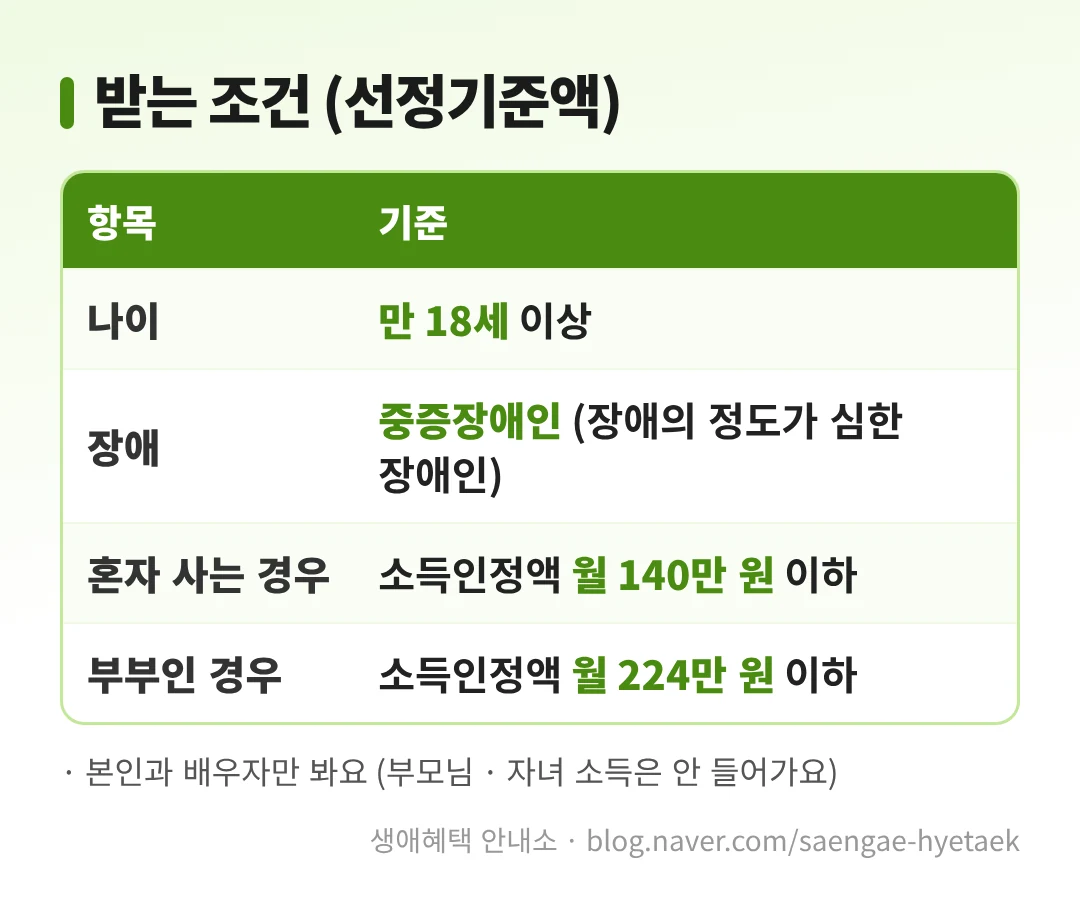
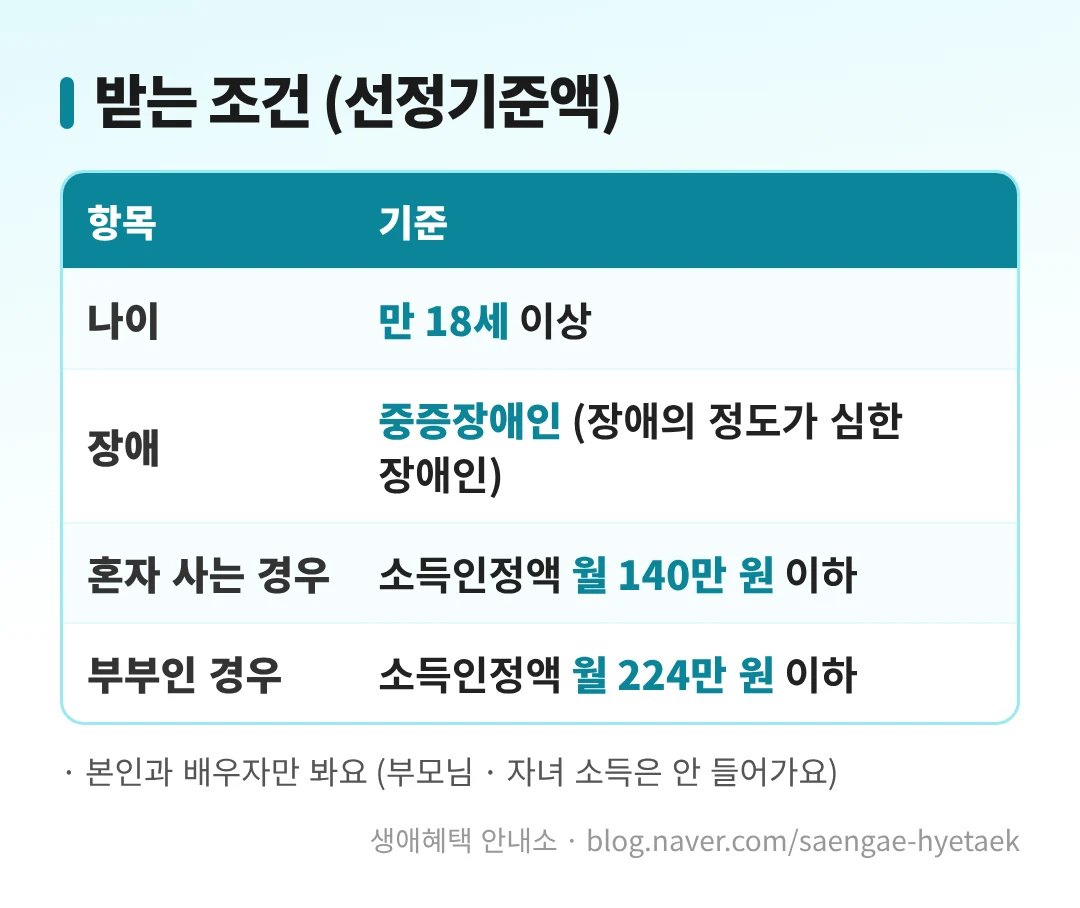
카테고리색 확정(청년 보라·임신 분홍·장애인 청록), 연결 줄 카테고리별 재구성 (11/27)
Claude-Session: https://claude.ai/code/session_01Nk3GpQpxJj9NPpDGjGUV5D

diff --git a/blog/2026-11-27-장애인연금-사진/원고-11-27-장애인연금.html b/blog/2026-11-27-장애인연금-사진/원고-11-27-장애인연금.html
@@ -4,11 +4,11 @@
 <p>[ 사진 넣는 자리 · 01-장애인연금-2026-월-최대-43만-9700원.webp ]</p>
 <p style="color:#333333;font-size:16px;line-height:1.9;margin:0 0 12px;text-align:left">안녕하세요, 생애혜택 안내인입니다. 장애가 있으면 병원비, 보조기기, 이동하는 데 드는 돈이 더 들기 마련이에요. 장애인연금은 이렇게 줄어든 벌이와 더 드는 비용을 매달 채워 주는 돈이에요. 2026년에는 한 달에 최대 43만 9,700원까지 받을 수 있어요. 등록만 하고 신청을 안 해서 못 받는 분이 많으니 꼭 확인해 보세요.</p>
 <p><br></p>
-<p style="color:#333333;font-size:16px;line-height:1.9;margin:0 0 12px;text-align:left"><b style="font-size:19px;color:#4A8C12">🎬 30초 영상으로 먼저 보기</b></p>
+<p style="color:#333333;font-size:16px;line-height:1.9;margin:0 0 12px;text-align:left"><b style="font-size:19px;color:#0C8599">🎬 30초 영상으로 먼저 보기</b></p>
 <p>[ 사진 넣는 자리 · 클립 영상(직접 넣기) · 장애인연금 2026 월 최대 43만 9700원.mp4 ]</p>
 <p style="color:#333333;font-size:16px;line-height:1.9;margin:0 0 12px;text-align:left">바쁘시면 영상만 보셔도 돼요. 아래는 우리 집이 받을 수 있는지 하나씩 확인하는 방법이에요.</p>
 <p><br></p>
-<p style="color:#333333;font-size:16px;line-height:1.9;margin:0 0 12px;text-align:left"><b style="font-size:18px;color:#4A8C12">✅ 한눈에 정리</b></p>
+<p style="color:#333333;font-size:16px;line-height:1.9;margin:0 0 12px;text-align:left"><b style="font-size:18px;color:#0C8599">✅ 한눈에 정리</b></p>
 <p style="color:#333333;font-size:16px;line-height:1.9;margin:0 0 12px;text-align:left">· 대상: 만 18세 이상 등록된 중증장애인(장애의 정도가 심한 장애인)</p>
 <p style="color:#333333;font-size:16px;line-height:1.9;margin:0 0 12px;text-align:left">· 소득 기준: 본인과 배우자의 소득인정액이 혼자면 월 140만 원, 부부면 224만 원 이하</p>
 <p style="color:#333333;font-size:16px;line-height:1.9;margin:0 0 12px;text-align:left">· 기초급여 최대 34만 9,700원 + 부가급여 3만~9만 원 = 한 달 최대 43만 9,700원</p>
@@ -16,22 +16,22 @@
 <p style="color:#333333;font-size:16px;line-height:1.9;margin:0 0 12px;text-align:left">· 신청: 사는 곳 주민센터 또는 복지로 / 문의 129</p>
 <hr>
 <p><br></p>
-<p style="color:#333333;font-size:16px;line-height:1.9;margin:0 0 12px;text-align:left"><b style="font-size:19px;color:#4A8C12">💰 두 가지 돈을 합쳐서 받아요</b></p>
+<p style="color:#333333;font-size:16px;line-height:1.9;margin:0 0 12px;text-align:left"><b style="font-size:19px;color:#0C8599">💰 두 가지 돈을 합쳐서 받아요</b></p>
 <p>[ 사진 넣는 자리 · 02-장애인연금-기초급여와-부가급여-금액.webp ]</p>
 <p style="color:#333333;font-size:16px;line-height:1.9;margin:0 0 12px;text-align:left">장애인연금은 기초급여와 부가급여 두 가지로 나뉘어요. 기초급여는 벌이가 줄어든 만큼 채워 주는 돈으로 18~64세가 받아요. 65세가 되면 기초연금으로 바뀌어 받게 돼요. 부가급여는 장애 때문에 더 드는 비용을 채워 주는 돈이에요. 부부가 둘 다 기초급여를 받으면 기초급여가 조금씩 줄어들어요.</p>
 <hr>
 <p><br></p>
-<p style="color:#333333;font-size:16px;line-height:1.9;margin:0 0 12px;text-align:left"><b style="font-size:19px;color:#4A8C12">✅ 우리 집도 받을 수 있을까?</b></p>
+<p style="color:#333333;font-size:16px;line-height:1.9;margin:0 0 12px;text-align:left"><b style="font-size:19px;color:#0C8599">✅ 우리 집도 받을 수 있을까?</b></p>
 <p>[ 사진 넣는 자리 · 03-장애인연금-받는-조건과-선정기준액.webp ]</p>
 <p style="color:#333333;font-size:16px;line-height:1.9;margin:0 0 12px;text-align:left">세 가지를 보면 돼요. 첫째, 만 18세 이상이어야 해요. 둘째, 장애의 정도가 심한 중증장애인으로 등록돼 있어야 해요. 셋째, 본인과 배우자의 소득인정액이 기준 아래여야 해요. 소득인정액은 월급 같은 벌이에 집, 예금 같은 재산을 돈으로 바꿔 더한 금액이에요. 그래서 부모님이나 자녀 소득은 들어가지 않아요.</p>
 <hr>
 <p><br></p>
-<p style="color:#333333;font-size:16px;line-height:1.9;margin:0 0 12px;text-align:left"><b style="font-size:19px;color:#4A8C12">🙋 나라면 얼마 받을까?</b></p>
+<p style="color:#333333;font-size:16px;line-height:1.9;margin:0 0 12px;text-align:left"><b style="font-size:19px;color:#0C8599">🙋 나라면 얼마 받을까?</b></p>
 <p>[ 사진 넣는 자리 · 04-상황별-장애인연금-받는-금액-예시.webp ]</p>
 <p style="color:#333333;font-size:16px;line-height:1.9;margin:0 0 12px;text-align:left">예를 들어 생계급여를 받는 40세 중증장애인이라면 기초급여 34만 9,700원에 부가급여 9만 원, 한 달 43만 9,700원을 받아요. 기초수급자가 아니라 차상위계층이면 부가급여가 3만~8만 원이라 이보다 조금 적어요. 소득인정액이 기준에 가까우면 기초급여가 단계별로 줄어 최소 2만 원까지 내려갈 수 있어요. 정확한 금액은 신청한 뒤 조사를 거쳐 정해져요.</p>
 <hr>
 <p><br></p>
-<p style="color:#333333;font-size:16px;line-height:1.9;margin:0 0 12px;text-align:left"><b style="font-size:19px;color:#4A8C12">📝 어떻게 신청하나요?</b></p>
+<p style="color:#333333;font-size:16px;line-height:1.9;margin:0 0 12px;text-align:left"><b style="font-size:19px;color:#0C8599">📝 어떻게 신청하나요?</b></p>
 <p>[ 사진 넣는 자리 · 05-장애인연금-신청하는-곳과-순서.webp ]</p>
 <p style="color:#333333;font-size:16px;line-height:1.9;margin:0 0 12px;text-align:left">① 주민등록상 사는 곳 읍·면·동 주민센터에 가서 상담하고 신청해요.</p>
 <p style="color:#333333;font-size:16px;line-height:1.9;margin:0 0 12px;text-align:left">② 인터넷은 복지로에서도 신청할 수 있어요. 다만 서류를 보완하느라 조금 늦어질 수 있어요.</p>
@@ -40,16 +40,16 @@
 <p style="color:#333333;font-size:16px;line-height:1.9;margin:0 0 12px;text-align:left">몸이 불편해 가기 어렵다면 가족이 대신 주민센터에 문의해도 돼요. 중증이 아닌 장애인이라면 저소득층에게 주는 장애수당(월 6만 원)을 확인해 보세요.</p>
 <hr>
 <p><br></p>
-<p style="color:#333333;font-size:16px;line-height:1.9;margin:0 0 12px;text-align:left"><b style="font-size:19px;color:#4A8C12">❓ 많이 헷갈리는 점</b></p>
+<p style="color:#333333;font-size:16px;line-height:1.9;margin:0 0 12px;text-align:left"><b style="font-size:19px;color:#0C8599">❓ 많이 헷갈리는 점</b></p>
 <p style="color:#333333;font-size:16px;line-height:1.9;margin:0 0 12px;text-align:left">장애인연금과 국민연금의 &#x27;장애연금&#x27;은 이름은 비슷하지만 전혀 다른 돈이에요. 장애연금은 국민연금에 가입해 보험료를 낸 사람이 받는 것이고, 장애인연금은 보험료와 상관없이 소득 기준으로 받아요. 그래서 국민연금을 낸 적이 없어도 장애인연금은 받을 수 있어요. 또 자녀가 만 18세가 되면 바로 주민센터에 물어보세요. 학교에 다니는 20세 이하라면 장애아동수당 대상일 수도 있어요.</p>
 <hr>
 <p><br></p>
-<p style="color:#333333;font-size:16px;line-height:1.9;margin:0 0 12px;text-align:left"><b style="font-size:19px;color:#4A8C12">📱 장애인 혜택, 한 번 더 보기</b></p>
+<p style="color:#333333;font-size:16px;line-height:1.9;margin:0 0 12px;text-align:left"><b style="font-size:19px;color:#0C8599">📱 장애인 혜택, 한 번 더 보기</b></p>
 <p style="color:#333333;font-size:16px;line-height:1.9;margin:0 0 12px;text-align:left">나이별로 받을 수 있는 정부 혜택을 &#x27;생애혜택 안내소&#x27;에 모아 두었어요. 토스 미니앱이라 설치 없이 토스에서 바로 열려요. 장애인 메뉴에서 함께 받을 수 있는 지원도 이어서 볼 수 있어요.</p>
 <p style="color:#333333;font-size:16px;line-height:1.9;margin:0 0 12px;text-align:left">👉 <a href="https://tossminiapp.com/s/XAESUR6e">https://tossminiapp.com/s/XAESUR6e</a></p>
 <hr>
 <p><br></p>
-<p style="color:#333333;font-size:16px;line-height:1.9;margin:0 0 12px;text-align:left"><b style="font-size:19px;color:#4A8C12">📚 함께 보면 좋은 글</b></p>
+<p style="color:#333333;font-size:16px;line-height:1.9;margin:0 0 12px;text-align:left"><b style="font-size:19px;color:#0C8599">📚 함께 보면 좋은 글</b></p>
 <p style="color:#333333;font-size:16px;line-height:1.9;margin:0 0 12px;text-align:left">▶ 생애혜택 안내소는 이런 블로그예요 (나이별 정부 혜택, 평일 매일)</p>
 <p style="color:#333333;font-size:16px;line-height:1.9;margin:0 0 12px;text-align:left"><a href="https://blog.naver.com/saengae-hyetaek/224460370661">https://blog.naver.com/saengae-hyetaek/224460370661</a></p>
 <hr>

diff --git a/blog/2026-11-27-청년-구직촉진수당-사진/원고-11-27-청년-구직촉진수당.html b/blog/2026-11-27-청년-구직촉진수당-사진/원고-11-27-청년-구직촉진수당.html
@@ -4,11 +4,11 @@
 <p>[ 사진 넣는 자리 · 01-청년-구직촉진수당-월60만원-6개월.webp ]</p>
 <p style="color:#333333;font-size:16px;line-height:1.9;margin:0 0 12px;text-align:left">안녕하세요, 생애혜택 안내인입니다. 취업 준비를 하다 보면 학원비, 교통비, 밥값까지 돈 걱정이 먼저 앞서죠. 이럴 때 나라에서 매달 생활비를 보태 주는 제도가 국민취업지원제도예요. 2026년부터는 한 달 받는 돈이 50만 원에서 60만 원으로 올랐어요. 일한 경험이 없어도 청년이면 신청할 수 있어요.</p>
 <p><br></p>
-<p style="color:#333333;font-size:16px;line-height:1.9;margin:0 0 12px;text-align:left"><b style="font-size:19px;color:#1C5FD4">🎬 30초 영상으로 먼저 보기</b></p>
+<p style="color:#333333;font-size:16px;line-height:1.9;margin:0 0 12px;text-align:left"><b style="font-size:19px;color:#6741D9">🎬 30초 영상으로 먼저 보기</b></p>
 <p>[ 사진 넣는 자리 · 클립 영상(직접 넣기) · 청년 구직촉진수당 월 60만원 6개월.mp4 ]</p>
 <p style="color:#333333;font-size:16px;line-height:1.9;margin:0 0 12px;text-align:left">바쁘시면 영상만 보셔도 돼요. 아래는 내가 받을 수 있는지 하나씩 따져 보는 방법이에요.</p>
 <p><br></p>
-<p style="color:#333333;font-size:16px;line-height:1.9;margin:0 0 12px;text-align:left"><b style="font-size:18px;color:#1C5FD4">✅ 한눈에 정리</b></p>
+<p style="color:#333333;font-size:16px;line-height:1.9;margin:0 0 12px;text-align:left"><b style="font-size:18px;color:#6741D9">✅ 한눈에 정리</b></p>
 <p style="color:#333333;font-size:16px;line-height:1.9;margin:0 0 12px;text-align:left">· 구직촉진수당은 월 60만 원씩 6개월, 모두 360만 원이에요(2026년)</p>
 <p style="color:#333333;font-size:16px;line-height:1.9;margin:0 0 12px;text-align:left">· 18세 이하·70세 이상 가족이나 중증장애인 가족을 돌보면 1명당 월 10만 원이 더 붙어요(최대 40만 원)</p>
 <p style="color:#333333;font-size:16px;line-height:1.9;margin:0 0 12px;text-align:left">· 청년(15~34세)은 가구 소득 중위소득 120% 이하, 재산 5억 원 이하면 신청할 수 있어요</p>
@@ -16,22 +16,22 @@
 <p style="color:#333333;font-size:16px;line-height:1.9;margin:0 0 12px;text-align:left">· 신청: 고용24 누리집 또는 가까운 고용센터 / 문의 1350</p>
 <hr>
 <p><br></p>
-<p style="color:#333333;font-size:16px;line-height:1.9;margin:0 0 12px;text-align:left"><b style="font-size:19px;color:#1C5FD4">💰 얼마를 받나요?</b></p>
+<p style="color:#333333;font-size:16px;line-height:1.9;margin:0 0 12px;text-align:left"><b style="font-size:19px;color:#6741D9">💰 얼마를 받나요?</b></p>
 <p>[ 사진 넣는 자리 · 02-청년-구직촉진수당-받는-금액-정리표.webp ]</p>
 <p style="color:#333333;font-size:16px;line-height:1.9;margin:0 0 12px;text-align:left">돈은 세 가지로 나뉘어요. 먼저 구직활동을 하는 동안 매달 60만 원을 받아요. 집에서 돌보는 가족이 있으면 1명에 10만 원씩 더해져 한 달 최대 100만 원까지 될 수 있어요. 그리고 취업해서 일정 기간 다니면 취업성공수당이 따로 나와요. 이력서 쓰는 법, 면접 연습 같은 1:1 상담도 함께 받아요.</p>
 <hr>
 <p><br></p>
-<p style="color:#333333;font-size:16px;line-height:1.9;margin:0 0 12px;text-align:left"><b style="font-size:19px;color:#1C5FD4">✅ 나도 신청할 수 있을까?</b></p>
+<p style="color:#333333;font-size:16px;line-height:1.9;margin:0 0 12px;text-align:left"><b style="font-size:19px;color:#6741D9">✅ 나도 신청할 수 있을까?</b></p>
 <p>[ 사진 넣는 자리 · 03-청년-국민취업지원제도-신청-조건.webp ]</p>
 <p style="color:#333333;font-size:16px;line-height:1.9;margin:0 0 12px;text-align:left">나이는 15세부터 34세까지예요. 군대를 다녀왔다면 복무한 기간만큼(최대 3년) 나이를 늘려 줘요. 그래서 군필이면 37세까지도 될 수 있어요. 소득은 나 혼자가 아니라 주민등록상 같이 사는 가족을 모두 합쳐서 봐요. 부모님과 같이 살면 부모님 소득도 들어간다는 뜻이에요. 청년은 취업 경험이 없어도 되지만, 예산 안에서 뽑기 때문에 일찍 마감될 수 있어요.</p>
 <hr>
 <p><br></p>
-<p style="color:#333333;font-size:16px;line-height:1.9;margin:0 0 12px;text-align:left"><b style="font-size:19px;color:#1C5FD4">🙋 나라면 얼마 받을까?</b></p>
+<p style="color:#333333;font-size:16px;line-height:1.9;margin:0 0 12px;text-align:left"><b style="font-size:19px;color:#6741D9">🙋 나라면 얼마 받을까?</b></p>
 <p>[ 사진 넣는 자리 · 04-상황별-구직촉진수당-받는-금액-예시.webp ]</p>
 <p style="color:#333333;font-size:16px;line-height:1.9;margin:0 0 12px;text-align:left">예를 들어 혼자 사는 27세 취업 준비생이라면 월 60만 원씩 6개월, 360만 원을 받아요. 4살 아이를 키우는 31세라면 아이 몫 10만 원이 붙어 월 70만 원, 6개월이면 420만 원이에요. 여기에 취업에 성공하면 취업성공수당이 더해져요. 다만 상담사와 정한 구직활동 계획을 지키지 않으면 그달 수당이 나오지 않으니 꼭 챙기세요.</p>
 <hr>
 <p><br></p>
-<p style="color:#333333;font-size:16px;line-height:1.9;margin:0 0 12px;text-align:left"><b style="font-size:19px;color:#1C5FD4">📝 어떻게 신청하나요?</b></p>
+<p style="color:#333333;font-size:16px;line-height:1.9;margin:0 0 12px;text-align:left"><b style="font-size:19px;color:#6741D9">📝 어떻게 신청하나요?</b></p>
 <p>[ 사진 넣는 자리 · 05-국민취업지원제도-신청-순서.webp ]</p>
 <p style="color:#333333;font-size:16px;line-height:1.9;margin:0 0 12px;text-align:left">① 고용24 누리집에 가입하고 구직 등록을 해요.</p>
 <p style="color:#333333;font-size:16px;line-height:1.9;margin:0 0 12px;text-align:left">② 국민취업지원제도 안내 동영상을 봐요.</p>
@@ -40,16 +40,16 @@
 <p style="color:#333333;font-size:16px;line-height:1.9;margin:0 0 12px;text-align:left">컴퓨터가 어렵다면 가까운 고용센터에 가서 신청해도 돼요. 참고로 고용노동부는 2027년에 &#x27;청년첫취업지원제도&#x27;를 새로 만들어, 일한 적 없는 청년까지 대상을 넓히고 수당을 월 65만 원으로 올릴 계획이라고 밝혔어요. 확정되면 이 블로그에서 바로 알려 드릴게요.</p>
 <hr>
 <p><br></p>
-<p style="color:#333333;font-size:16px;line-height:1.9;margin:0 0 12px;text-align:left"><b style="font-size:19px;color:#1C5FD4">❓ 많이 헷갈리는 점</b></p>
+<p style="color:#333333;font-size:16px;line-height:1.9;margin:0 0 12px;text-align:left"><b style="font-size:19px;color:#6741D9">❓ 많이 헷갈리는 점</b></p>
 <p style="color:#333333;font-size:16px;line-height:1.9;margin:0 0 12px;text-align:left">알바를 조금 하고 있어도 신청할 수 있나요? 신청은 가능하지만, 수당을 받는 동안 생긴 소득은 꼭 신고해야 해요. 신고하지 않고 받으면 나중에 돌려줘야 할 수 있어요. 실업급여를 받는 중이라면 이 수당은 함께 받을 수 없어요. 대신 실업급여가 끝난 뒤 조건이 맞으면 다시 알아볼 수 있어요. 모르는 부분은 신청 전에 1350으로 전화해 내 상황을 그대로 말하고 물어보는 게 가장 빨라요.</p>
 <hr>
 <p><br></p>
-<p style="color:#333333;font-size:16px;line-height:1.9;margin:0 0 12px;text-align:left"><b style="font-size:19px;color:#1C5FD4">📱 청년 혜택, 한 번 더 보기</b></p>
+<p style="color:#333333;font-size:16px;line-height:1.9;margin:0 0 12px;text-align:left"><b style="font-size:19px;color:#6741D9">📱 청년 혜택, 한 번 더 보기</b></p>
 <p style="color:#333333;font-size:16px;line-height:1.9;margin:0 0 12px;text-align:left">나이별로 받을 수 있는 정부 혜택을 &#x27;생애혜택 안내소&#x27;에 모아 두었어요. 토스 미니앱이라 설치 없이 토스에서 바로 열려요. 청년 메뉴에서 월세·적금 지원도 이어서 볼 수 있어요.</p>
 <p style="color:#333333;font-size:16px;line-height:1.9;margin:0 0 12px;text-align:left">👉 <a href="https://tossminiapp.com/s/XAESUR6e">https://tossminiapp.com/s/XAESUR6e</a></p>
 <hr>
 <p><br></p>
-<p style="color:#333333;font-size:16px;line-height:1.9;margin:0 0 12px;text-align:left"><b style="font-size:19px;color:#1C5FD4">📚 함께 보면 좋은 글</b></p>
+<p style="color:#333333;font-size:16px;line-height:1.9;margin:0 0 12px;text-align:left"><b style="font-size:19px;color:#6741D9">📚 함께 보면 좋은 글</b></p>
 <p style="color:#333333;font-size:16px;line-height:1.9;margin:0 0 12px;text-align:left">▶ 생애혜택 안내소는 이런 블로그예요 (나이별 정부 혜택, 평일 매일)</p>
 <p style="color:#333333;font-size:16px;line-height:1.9;margin:0 0 12px;text-align:left"><a href="https://blog.naver.com/saengae-hyetaek/224460370661">https://blog.naver.com/saengae-hyetaek/224460370661</a></p>
 <hr>

diff --git a/tools/blog-card/make-saengae-html.py b/tools/blog-card/make-saengae-html.py
@@ -7,8 +7,8 @@
 import sys, re, json, html
 
 src, names, out = sys.argv[1], json.load(open(sys.argv[2], encoding='utf-8')), sys.argv[3]
-COLOR = {'money': '#D9480F', 'purple': '#6741D9', 'digital': '#1C5FD4', 'pink': '#C2255C', 'job': '#4A8C12', 'news': '#DE5353'}
-# 요일색 (사장님 11/27 '날짜별로 색깔을 다 달리'): 월 다홍 money · 화 보라 purple · 수 파랑 digital · 목 분홍 pink · 금 녹색 job
+COLOR = {'money': '#D9480F', 'purple': '#6741D9', 'digital': '#1C5FD4', 'pink': '#C2255C', 'cyan': '#0C8599', 'job': '#4A8C12', 'news': '#DE5353'}
+# 카테고리색 (사장님 11/27 15:33): 어르신·중장년은 쓰던 색 그대로(money 다홍·digital 파랑·job 녹색) / 청년 purple 보라 · 임신·자녀 pink 분홍 · 장애인 cyan 청록
 theme = COLOR[names.get('theme', 'money')]
 raw = open(src, encoding='utf-8').read()
 title = raw.split('━ 제목 ━')[1].split('━ 본문 ━')[0].strip('━ \n')

diff --git a/HANDOFF.md b/HANDOFF.md
@@ -7,6 +7,12 @@
 
 
 
+## ⭐⭐⭐ 11/27 15:31~15:34 — 카테고리색 확정(요일색 대신) · 중장년 하위 메뉴 (사장님)
+- 명령 원문: "스미싱 디지털글은 여기에 있네" (화면: 중장년(50·60대) 하위 = 중장년혜택 · 정부24복지로 쉽게 쓰기 · 보이스피싱 스미싱 예방 · 실업급여·고용지원 · 국비 교육·자격증 · 중장년 일자리)
+- 명령 원문: "카테고리별 색상은 지금까지 쓰던것은 그대로 쓰고 청년 임산부 장애인만 색상 추가시켜" / "임산부는 분홍 청년이랑 장애인은 다른색상으로 해"
+- 색(15:25 '요일색 5가지'를 대신함): 어르신·중장년 = 지금까지 쓰던 색 그대로(지원금 다홍 #D9480F money · 디지털 파랑 #1C5FD4 digital · 일자리 녹색 #4A8C12 job) / 청년 = 보라 #6741D9 (purple) / 임신·자녀 = 분홍 #C2255C (pink) / 장애인 = 청록 #0C8599 (cyan)
+- 연결 줄을 카테고리 이름으로 다시 묶음(blog/글주소-연결줄.json): 중장년 = 노인일자리·실업급여·내일배움카드·중장년내일센터·국민연금·스미싱·정부24 / 어르신 = 혜택알리미·대신 신청·스마트폰 글씨·기초연금 (⚠ 어르신 하위 메뉴 화면을 받으면 다시 맞춤)
+
 ## ⭐⭐ 11/27 15:25 — 클립 목소리 = 수퍼톤 M1 (사장님) + 오늘(11/27) 지시 모아 보기
 - 명령 원문: "영상에는 이목소리로 사용해 그리고 오늘 모든 내가 지시내린거 지시문에 추가시켜" (보내 준 파일: …M1.mp3 = 수퍼톤 Supertonic M1)
 - 앞으로 생애혜택 클립 나레이션은 수퍼톤 M1(무료)으로 만든다: python3 tools/clip/make-voice.py 장면.json 출력.mp3 출력.srt m1 → make-card-clip-hf.py. (예전 '타입캐스트 필재'·'인준' 대신)
@@ -14,7 +20,8 @@
   1. 09:50 전세사기 의심거래 88건 속보 원고 / 11:15 생계급여 기준 2030년 35% 속보(블로그 글 + 영상)
   2. 14:05 블로그 카테고리를 앱처럼 나이별로: 어르신(65+) · 중장년(50~60대) · 청년 · 임신·자녀(영유아·초중고 포함) · 장애인 따로 + 정책 속보. '모든 나이' 카테고리는 안 만듦
   3. 14:34~14:52 발행 계획: 5개 카테고리를 월~금 하루 하나씩 돌아가며(월 어르신 · 화 중장년 · 수 청년 · 목 임신·자녀 · 금 장애인), 정책 속보는 나올 때마다. 시트에 11/30~12/31 일정
-  4. 14:53 오늘 하위 메뉴용으로 청년 · 임신·자녀 · 장애인 글 1개씩 / 다음 주부터 하루 하나씩 / 날짜(요일)별로 색을 다 다르게(월 다홍·화 보라·수 파랑·목 분홍·금 녹색)
+  4. 14:53 오늘 하위 메뉴용으로 청년 · 임신·자녀 · 장애인 글 1개씩 / 다음 주부터 하루 하나씩 / 색 다르게 → 15:33에 '쓰던 색 그대로 + 청년 보라·임신 분홍·장애인 청록'으로 바뀜
+  7. 15:31 중장년 하위 메뉴(스미싱·정부24 디지털 글 포함) / 15:33~34 카테고리색 확정
   5. 14:55 '이어서 보기' 연결은 그 카테고리 안의 글끼리만 (청년은 청년 글만)
   6. 15:25 클립 목소리는 수퍼톤 M1 / 오늘 지시 모두 지시서에 기록
 
